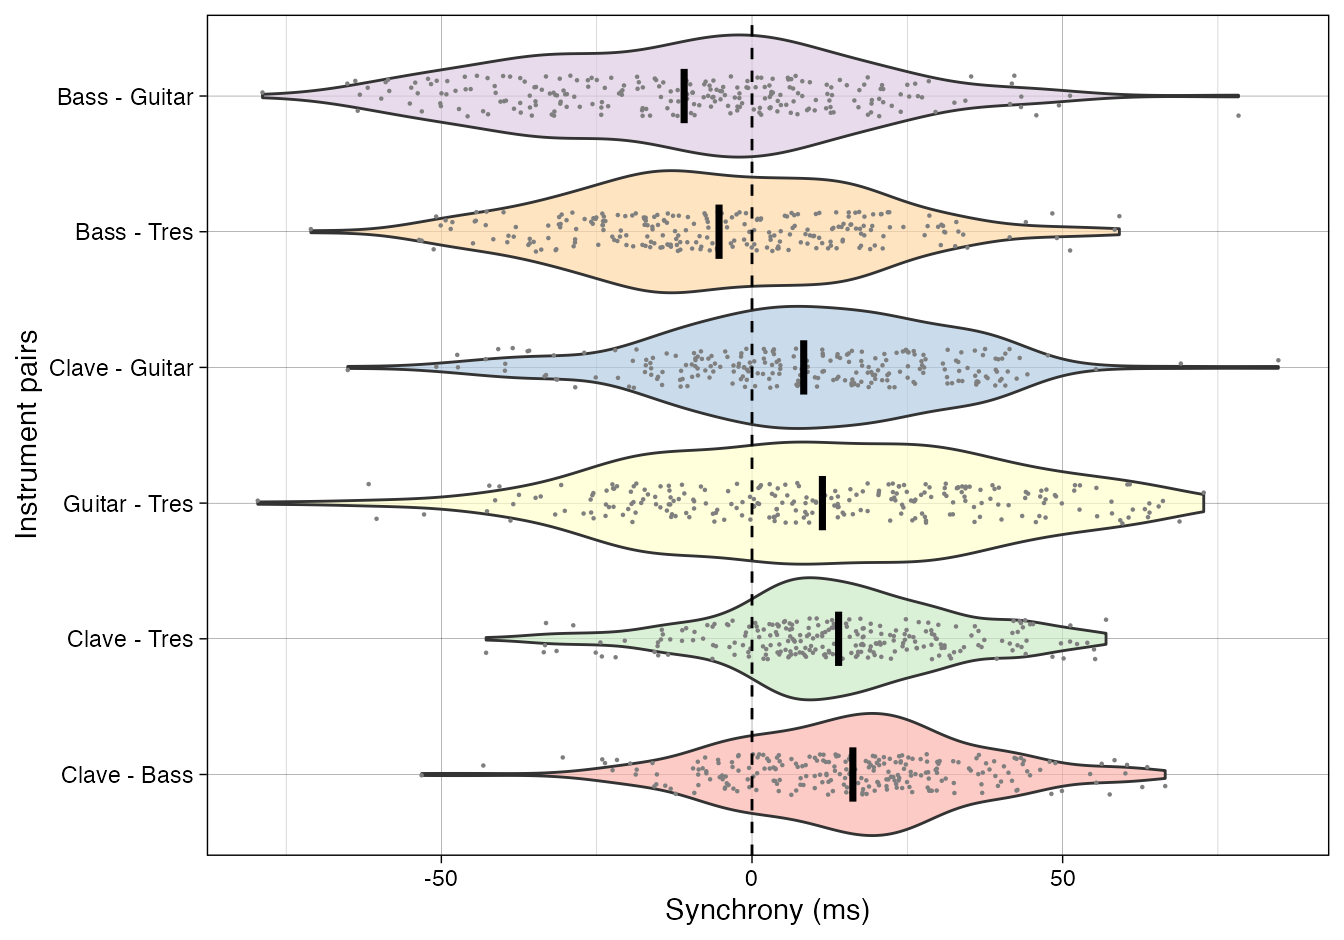
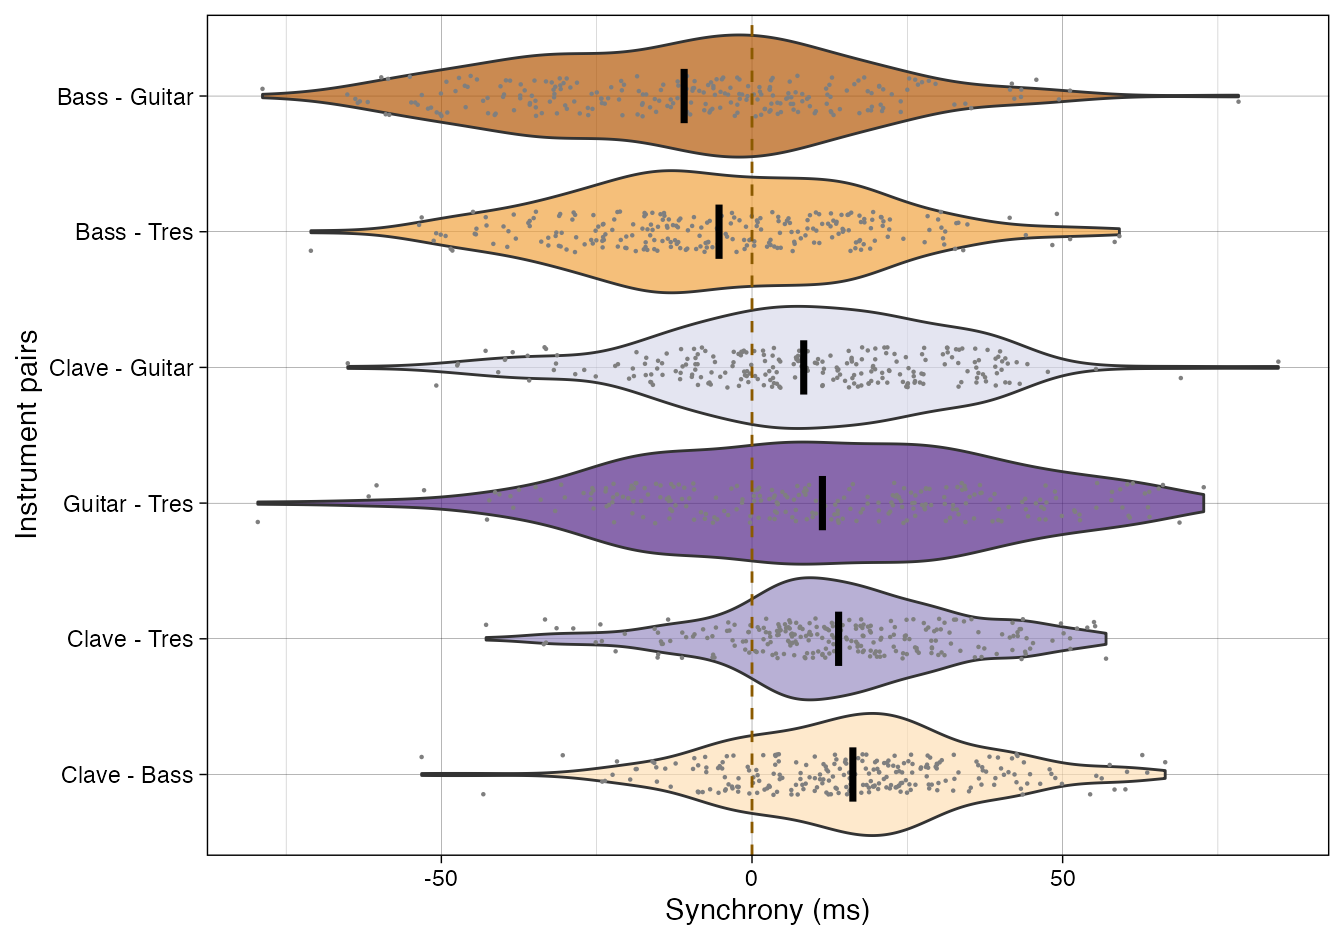
Version 0.4.6 with small fixes

Changed region(s): [[0.1875, 0.0309, 0.9062, 0.8947]]

diff --git a/docs/reference/plot_by_pair.html b/docs/reference/plot_by_pair.html
@@ -10,7 +10,7 @@
     
     <a class="navbar-brand me-2" href="../index.html">onsetsync</a>
 
-    <small class="nav-text text-muted me-auto" data-bs-toggle="tooltip" data-bs-placement="bottom" title="">0.4.5</small>
+    <small class="nav-text text-muted me-auto" data-bs-toggle="tooltip" data-bs-placement="bottom" title="">0.4.6</small>
 
     
     <button class="navbar-toggler" type="button" data-bs-toggle="collapse" data-bs-target="#navbar" aria-controls="navbar" aria-expanded="false" aria-label="Toggle navigation">
@@ -48,12 +48,7 @@
 
     <div class="section level2">
     <h2 id="ref-usage">Usage<a class="anchor" aria-label="anchor" href="#ref-usage"></a></h2>
-    <div class="sourceCode"><pre class="sourceCode r"><code><span><span class="fu">plot_by_pair</span><span class="op">(</span></span>
-<span>  df <span class="op">=</span> <span class="cn">NULL</span>,</span>
-<span>  bybeat <span class="op">=</span> <span class="cn">FALSE</span>,</span>
-<span>  reference <span class="op">=</span> <span class="fl">0</span>,</span>
-<span>  colourpalette <span class="op">=</span> <span class="st">"Pastel1"</span></span>
-<span><span class="op">)</span></span></code></pre></div>
+    <div class="sourceCode"><pre class="sourceCode r"><code><span><span class="fu">plot_by_pair</span><span class="op">(</span>df <span class="op">=</span> <span class="cn">NULL</span>, bybeat <span class="op">=</span> <span class="cn">FALSE</span>, reference <span class="op">=</span> <span class="fl">0</span>, colourpalette <span class="op">=</span> <span class="st">"PuOr"</span><span class="op">)</span></span></code></pre></div>
     </div>
 
     <div class="section level2">
@@ -71,7 +66,7 @@
 
 
 <dt>colourpalette</dt>
-<dd><p>Optional colourpalette, Default</p></dd>
+<dd><p>Optional colourpalette, Default 'PuOr' (Purple to Orange)</p></dd>
 
 </dl></div>
     <div class="section level2">

diff --git a/docs/news/index.html b/docs/news/index.html
@@ -10,7 +10,7 @@
     
     <a class="navbar-brand me-2" href="../index.html">onsetsync</a>
 
-    <small class="nav-text text-muted me-auto" data-bs-toggle="tooltip" data-bs-placement="bottom" title="">0.4.5</small>
+    <small class="nav-text text-muted me-auto" data-bs-toggle="tooltip" data-bs-placement="bottom" title="">0.4.6</small>
 
     
     <button class="navbar-toggler" type="button" data-bs-toggle="collapse" data-bs-target="#navbar" aria-controls="navbar" aria-expanded="false" aria-label="Toggle navigation">
@@ -41,6 +41,18 @@
       
     </div>
 
+    <div class="section level2">
+<h2 class="pkg-version" data-toc-text="0.4.6" id="onsetsync-046">onsetsync 0.4.6<a class="anchor" aria-label="anchor" href="#onsetsync-046"></a></h2>
+<div class="section level3">
+<h3 id="bug-fixes-0-4-6">Bug Fixes<a class="anchor" aria-label="anchor" href="#bug-fixes-0-4-6"></a></h3>
+<ul><li>removed an element from <code>summarise_sync.R</code>,</li>
+<li>added calculation of sync across subdivisions in <code>summarise_sync_by_pair.R</code>
+</li>
+<li>revised <code>plot_by_pair.R</code> color options when each subdivision is requested (<code>bybeat</code>) and flipped the histogram for clarity.</li>
+<li>replaced the use of <code><a href="https://rdrr.io/pkg/reshape2/man/melt.html" class="external-link">reshape2::melt</a></code> function with <code><a href="https://tidyr.tidyverse.org/reference/pivot_longer.html" class="external-link">tidyr::pivot_longer</a></code>
+</li>
+</ul></div>
+</div>
     <div class="section level2">
 <h2 class="pkg-version" data-toc-text="0.4.5" id="onsetsync-045">onsetsync 0.4.5<a class="anchor" aria-label="anchor" href="#onsetsync-045"></a></h2>
 <div class="section level3">

diff --git a/docs/articles/onsetsync.html b/docs/articles/onsetsync.html
@@ -35,7 +35,7 @@
     
     <a class="navbar-brand me-2" href="../index.html">onsetsync</a>
 
-    <small class="nav-text text-muted me-auto" data-bs-toggle="tooltip" data-bs-placement="bottom" title="">0.4.5</small>
+    <small class="nav-text text-muted me-auto" data-bs-toggle="tooltip" data-bs-placement="bottom" title="">0.4.6</small>
 
     
     <button class="navbar-toggler" type="button" data-bs-toggle="collapse" data-bs-target="#navbar" aria-controls="navbar" aria-expanded="false" aria-label="Toggle navigation">
@@ -102,7 +102,7 @@ Github by entering the following commands into R:</p>
 <span><span class="kw"><a href="https://rdrr.io/r/base/library.html" class="external-link">library</a></span><span class="op">(</span><span class="va"><a href="https://dplyr.tidyverse.org" class="external-link">dplyr</a></span><span class="op">)</span></span>
 <span><span class="kw"><a href="https://rdrr.io/r/base/library.html" class="external-link">library</a></span><span class="op">(</span><span class="va"><a href="https://ggplot2.tidyverse.org" class="external-link">ggplot2</a></span><span class="op">)</span></span>
 <span><span class="fu"><a href="https://rdrr.io/r/utils/packageDescription.html" class="external-link">packageVersion</a></span><span class="op">(</span><span class="st">"onsetsync"</span><span class="op">)</span></span></code></pre></div>
-<pre><code><span><span class="co">## [1] '0.4.5'</span></span></code></pre>
+<pre><code><span><span class="co">## [1] '0.4.6'</span></span></code></pre>
 <div class="section level3">
 <h3 id="reading-in-data">Reading in data<a class="anchor" aria-label="anchor" href="#reading-in-data"></a>
 </h3>

diff --git a/docs/reference/summarise_sync.html b/docs/reference/summarise_sync.html
@@ -10,7 +10,7 @@
     
     <a class="navbar-brand me-2" href="../index.html">onsetsync</a>
 
-    <small class="nav-text text-muted me-auto" data-bs-toggle="tooltip" data-bs-placement="bottom" title="">0.4.5</small>
+    <small class="nav-text text-muted me-auto" data-bs-toggle="tooltip" data-bs-placement="bottom" title="">0.4.6</small>
 
     
     <button class="navbar-toggler" type="button" data-bs-toggle="collapse" data-bs-target="#navbar" aria-controls="navbar" aria-expanded="false" aria-label="Toggle navigation">
@@ -48,17 +48,13 @@
 
     <div class="section level2">
     <h2 id="ref-usage">Usage<a class="anchor" aria-label="anchor" href="#ref-usage"></a></h2>
-    <div class="sourceCode"><pre class="sourceCode r"><code><span><span class="fu">summarise_sync</span><span class="op">(</span>df <span class="op">=</span> <span class="cn">NULL</span>, relative <span class="op">=</span> <span class="cn">FALSE</span><span class="op">)</span></span></code></pre></div>
+    <div class="sourceCode"><pre class="sourceCode r"><code><span><span class="fu">summarise_sync</span><span class="op">(</span>df <span class="op">=</span> <span class="cn">NULL</span><span class="op">)</span></span></code></pre></div>
     </div>
 
     <div class="section level2">
     <h2 id="arguments">Arguments<a class="anchor" aria-label="anchor" href="#arguments"></a></h2>
     <dl><dt>df</dt>
 <dd><p>data frame to be processed</p></dd>
-
-
-<dt>relative</dt>
-<dd><p>Whether calculation is relative measure</p></dd>
 
 </dl></div>
     <div class="section level2">

diff --git a/docs/reference/onsetsync-package.html b/docs/reference/onsetsync-package.html
@@ -12,7 +12,7 @@ This package help to calculate and visualise onset data. The emphasis is on comp
     
     <a class="navbar-brand me-2" href="../index.html">onsetsync</a>
 
-    <small class="nav-text text-muted me-auto" data-bs-toggle="tooltip" data-bs-placement="bottom" title="">0.4.5</small>
+    <small class="nav-text text-muted me-auto" data-bs-toggle="tooltip" data-bs-placement="bottom" title="">0.4.6</small>
 
     
     <button class="navbar-toggler" type="button" data-bs-toggle="collapse" data-bs-target="#navbar" aria-controls="navbar" aria-expanded="false" aria-label="Toggle navigation">

diff --git a/docs/reference/plot_by_var_time.html b/docs/reference/plot_by_var_time.html
@@ -14,7 +14,7 @@ another variable."><meta property="og:image" content="https://github.com/tuomase
     
     <a class="navbar-brand me-2" href="../index.html">onsetsync</a>
 
-    <small class="nav-text text-muted me-auto" data-bs-toggle="tooltip" data-bs-placement="bottom" title="">0.4.5</small>
+    <small class="nav-text text-muted me-auto" data-bs-toggle="tooltip" data-bs-placement="bottom" title="">0.4.6</small>
 
     
     <button class="navbar-toggler" type="button" data-bs-toggle="collapse" data-bs-target="#navbar" aria-controls="navbar" aria-expanded="false" aria-label="Toggle navigation">

diff --git a/docs/reference/plot_by_variable.html b/docs/reference/plot_by_variable.html
@@ -14,7 +14,7 @@ another variable."><meta property="og:image" content="https://github.com/tuomase
     
     <a class="navbar-brand me-2" href="../index.html">onsetsync</a>
 
-    <small class="nav-text text-muted me-auto" data-bs-toggle="tooltip" data-bs-placement="bottom" title="">0.4.5</small>
+    <small class="nav-text text-muted me-auto" data-bs-toggle="tooltip" data-bs-placement="bottom" title="">0.4.6</small>
 
     
     <button class="navbar-toggler" type="button" data-bs-toggle="collapse" data-bs-target="#navbar" aria-controls="navbar" aria-expanded="false" aria-label="Toggle navigation">

diff --git a/docs/reference/summarise_onsets.html b/docs/reference/summarise_onsets.html
@@ -14,7 +14,7 @@ across instruments."><meta property="og:image" content="https://github.com/tuoma
     
     <a class="navbar-brand me-2" href="../index.html">onsetsync</a>
 
-    <small class="nav-text text-muted me-auto" data-bs-toggle="tooltip" data-bs-placement="bottom" title="">0.4.5</small>
+    <small class="nav-text text-muted me-auto" data-bs-toggle="tooltip" data-bs-placement="bottom" title="">0.4.6</small>
 
     
     <button class="navbar-toggler" type="button" data-bs-toggle="collapse" data-bs-target="#navbar" aria-controls="navbar" aria-expanded="false" aria-label="Toggle navigation">

diff --git a/docs/reference/sync_execute_pairs.html b/docs/reference/sync_execute_pairs.html
@@ -16,7 +16,7 @@ sync_sample_paired."><meta property="og:image" content="https://github.com/tuoma
     
     <a class="navbar-brand me-2" href="../index.html">onsetsync</a>
 
-    <small class="nav-text text-muted me-auto" data-bs-toggle="tooltip" data-bs-placement="bottom" title="">0.4.5</small>
+    <small class="nav-text text-muted me-auto" data-bs-toggle="tooltip" data-bs-placement="bottom" title="">0.4.6</small>
 
     
     <button class="navbar-toggler" type="button" data-bs-toggle="collapse" data-bs-target="#navbar" aria-controls="navbar" aria-expanded="false" aria-label="Toggle navigation">

diff --git a/docs/404.html b/docs/404.html
@@ -31,7 +31,7 @@
     
     <a class="navbar-brand me-2" href="https://github.com/tuomaseerola/onsetsync/index.html">onsetsync</a>
 
-    <small class="nav-text text-muted me-auto" data-bs-toggle="tooltip" data-bs-placement="bottom" title="">0.4.5</small>
+    <small class="nav-text text-muted me-auto" data-bs-toggle="tooltip" data-bs-placement="bottom" title="">0.4.6</small>
 
     
     <button class="navbar-toggler" type="button" data-bs-toggle="collapse" data-bs-target="#navbar" aria-controls="navbar" aria-expanded="false" aria-label="Toggle navigation">

diff --git a/docs/articles/index.html b/docs/articles/index.html
@@ -10,7 +10,7 @@
     
     <a class="navbar-brand me-2" href="../index.html">onsetsync</a>
 
-    <small class="nav-text text-muted me-auto" data-bs-toggle="tooltip" data-bs-placement="bottom" title="">0.4.5</small>
+    <small class="nav-text text-muted me-auto" data-bs-toggle="tooltip" data-bs-placement="bottom" title="">0.4.6</small>
 
     
     <button class="navbar-toggler" type="button" data-bs-toggle="collapse" data-bs-target="#navbar" aria-controls="navbar" aria-expanded="false" aria-label="Toggle navigation">

diff --git a/docs/reference/Asere_OU_2.html b/docs/reference/Asere_OU_2.html
@@ -10,7 +10,7 @@
     
     <a class="navbar-brand me-2" href="../index.html">onsetsync</a>
 
-    <small class="nav-text text-muted me-auto" data-bs-toggle="tooltip" data-bs-placement="bottom" title="">0.4.5</small>
+    <small class="nav-text text-muted me-auto" data-bs-toggle="tooltip" data-bs-placement="bottom" title="">0.4.6</small>
 
     
     <button class="navbar-toggler" type="button" data-bs-toggle="collapse" data-bs-target="#navbar" aria-controls="navbar" aria-expanded="false" aria-label="Toggle navigation">
